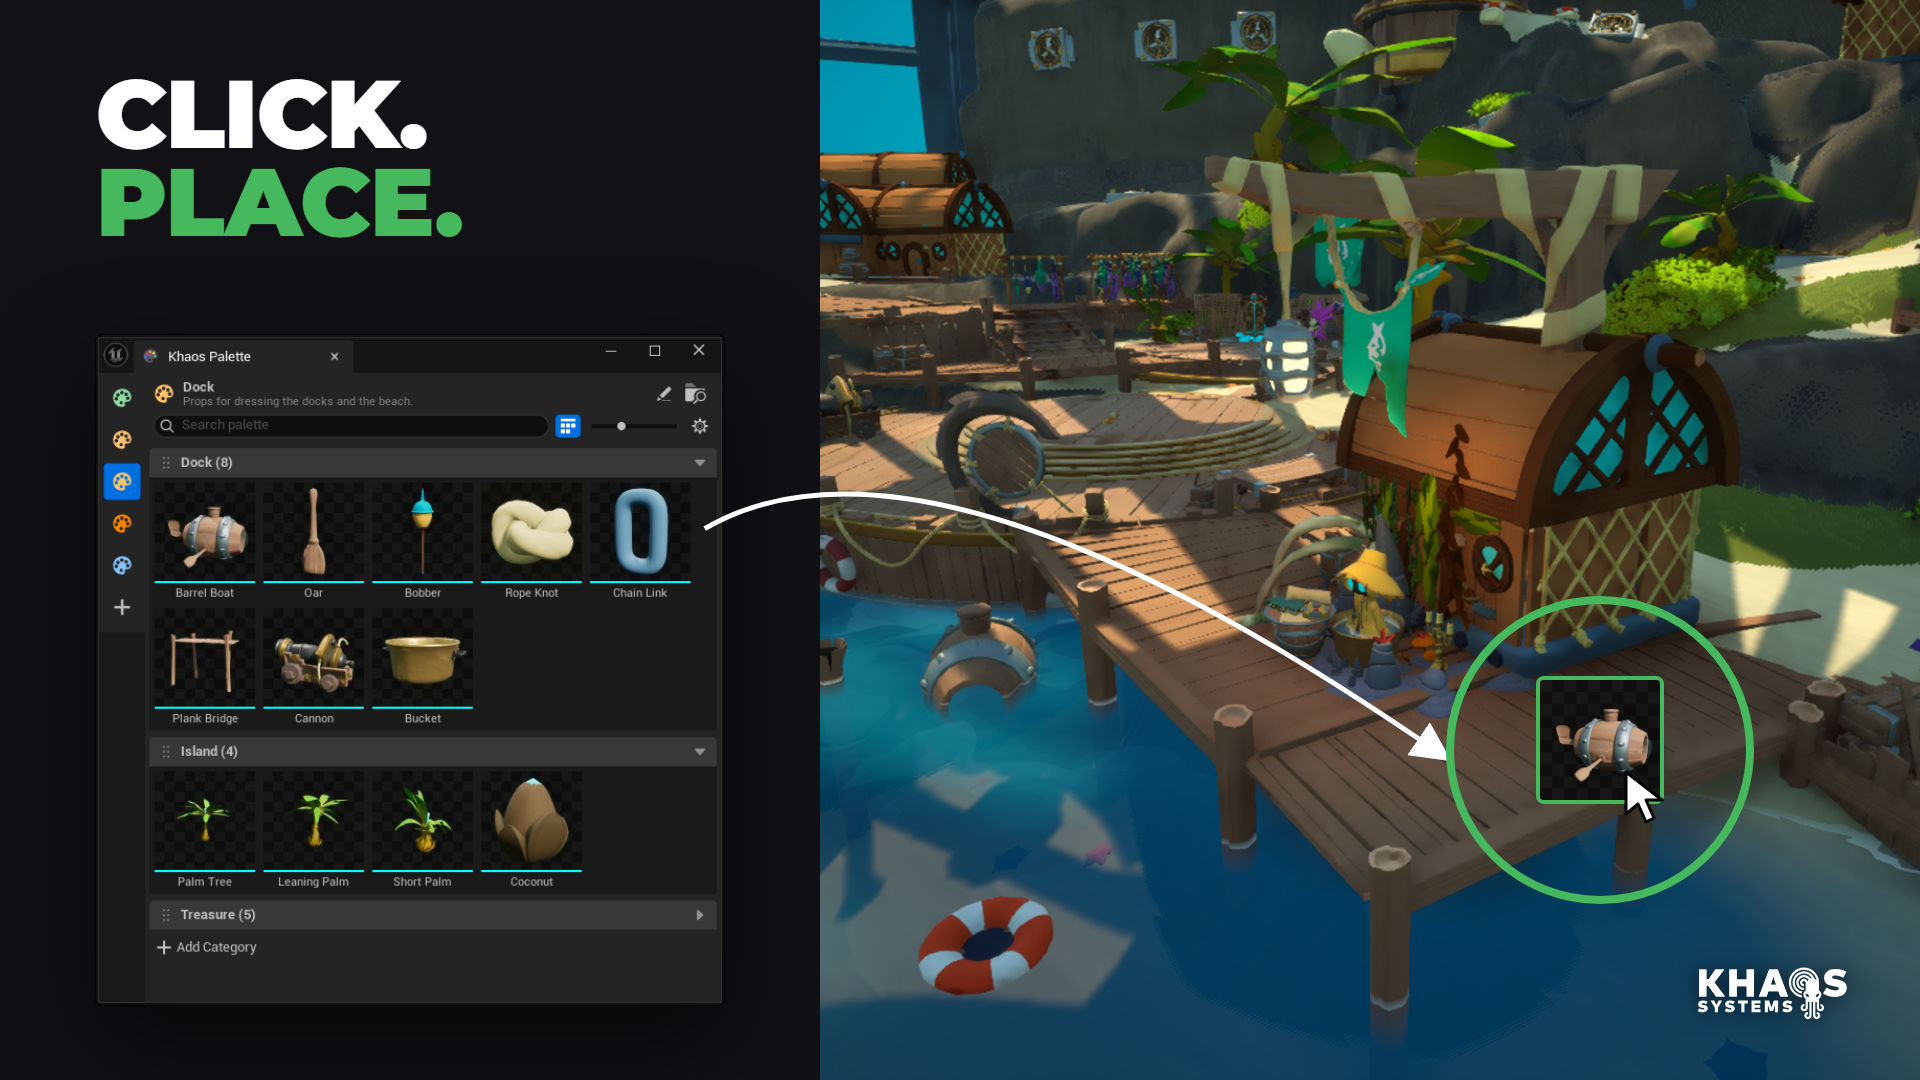
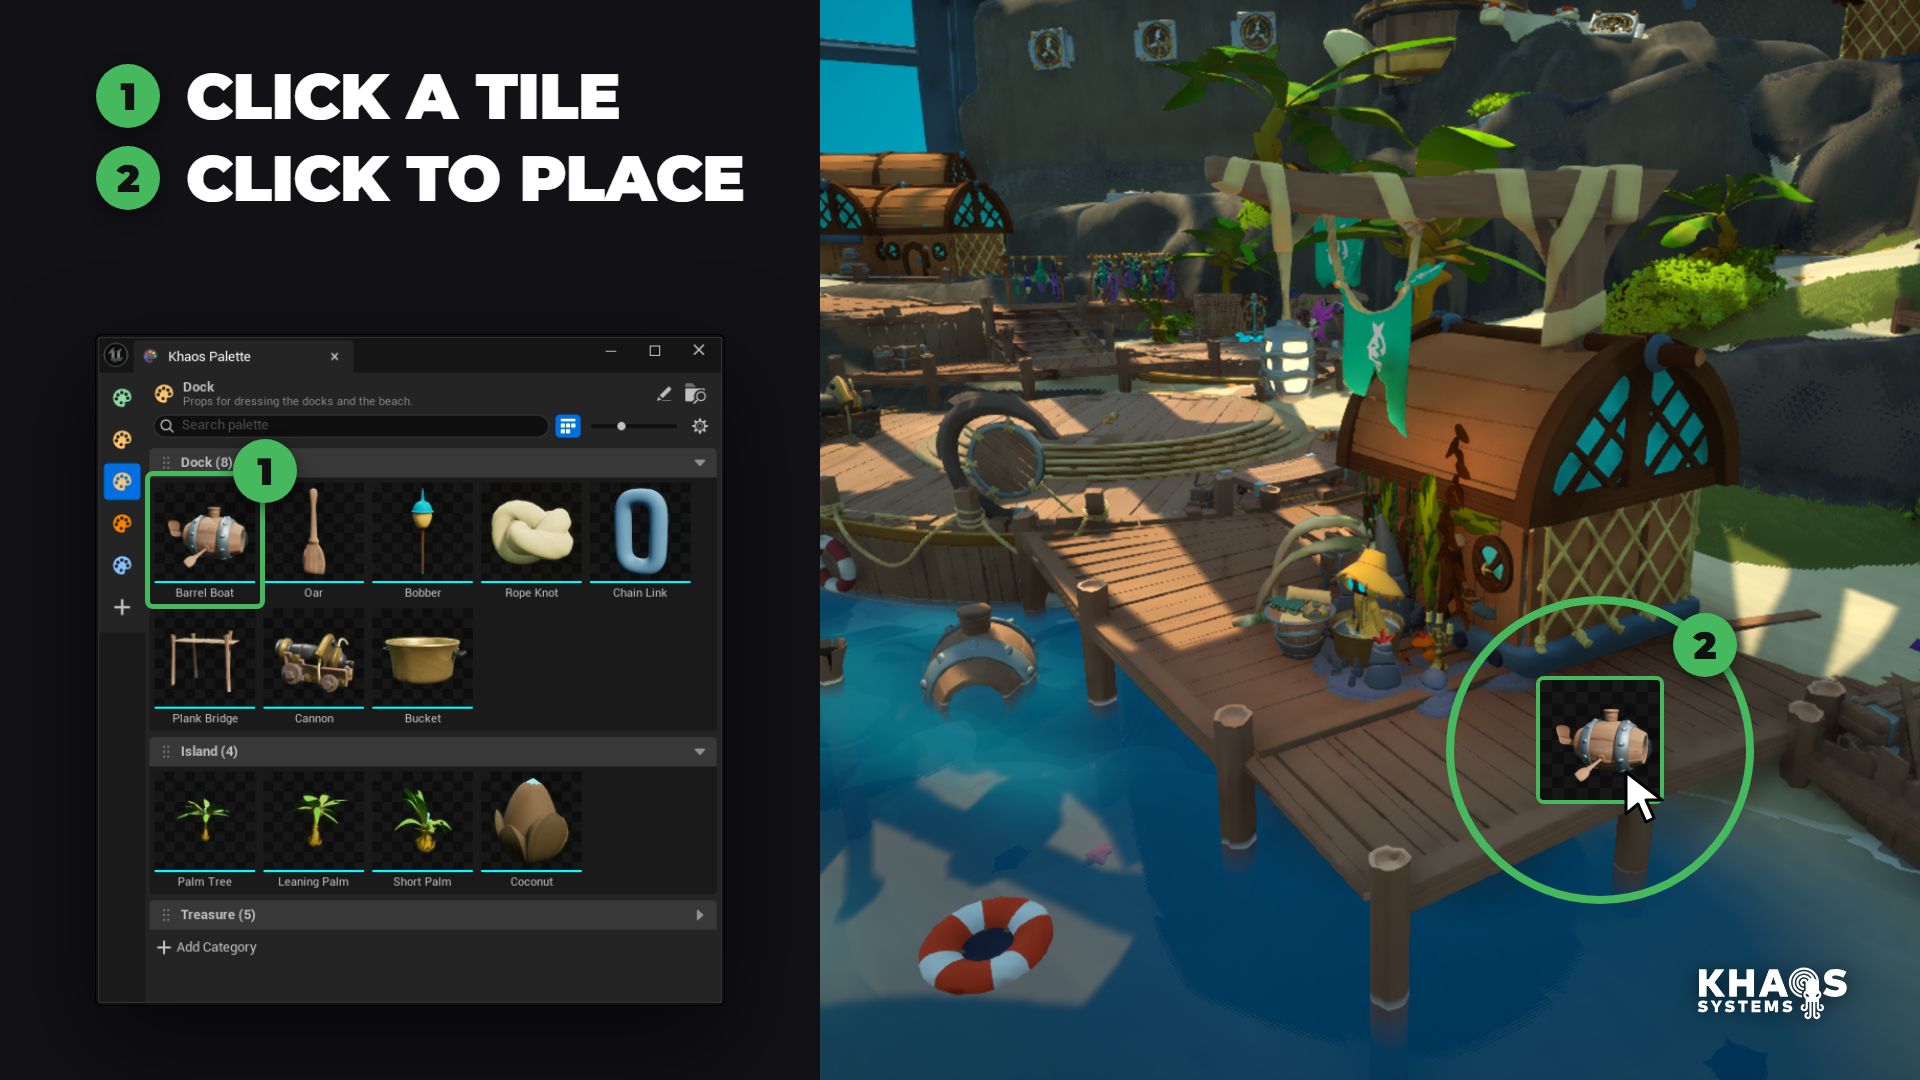
docs: show Click to Place as two numbered steps instead of an arrow

diff --git a/Marketing/render.py b/Marketing/render.py
@@ -32,7 +32,8 @@ RED, ORANGE, YELLOW, GREEN, BLUE, PURPLE = "#E5484D", "#F5A623", "#F2D94E", "#46
 
 # Points on tab.png as fractions of its size (x, y): measure them again whenever tab.png is retaken.
 SEARCH, SIDEBAR, CATEGORY, TILE, FOLDED = (0.097, 0.134), (0.042, 0.281), (0.9, 0.189), (0.867, 0.289), (0.9, 0.864)
-TILE_ROW_EDGE = (0.947, 0.289)
+# The first tile (thumbnail and name) on tab.png as left, top, right, bottom fractions.
+FIRST_TILE = (0.087, 0.2125, 0.26, 0.4)
 # Screenshots are enlarged at most this much, so UI text stays sharp.
 MAX_SCALE = 1.3
 
@@ -44,7 +45,7 @@ SLIDES = [
         ("Fold away", FOLDED, PURPLE, "right")]},
     {"id": "02-drag", "layout": "close-up", "panel": "tab-large.png", "title": ("Drag", "it in"), "accent": RED},
     # target: where the tile is being placed in scene.png, as page x, y and ring radius (right half of the image).
-    {"id": "03-click", "layout": "split", "panel": "tab.png", "title": ("Click.", "Place."), "accent": GREEN,
+    {"id": "03-click", "layout": "split", "panel": "tab.png", "title": ("Click a tile", "Click to place"), "accent": GREEN,
      "target": (1600, 750, 150)},
     {"id": "04-categories", "layout": "colour", "panel": "tab-menu.png", "title": ("Sort into", "categories"),
      "accent": ORANGE},
@@ -292,21 +293,37 @@ def close_up(page, slide):
     page.logo("left:96px;bottom:72px")
 
 
+def step(number, left, top, colour):
+    """A numbered step marker."""
+    return (f'<div style="position:absolute;left:{left}px;top:{top}px;width:64px;height:64px;border-radius:50%;'
+            f'background:{colour};color:#111;font:900 38px Montserrat;display:flex;align-items:center;'
+            f'justify-content:center;box-shadow:0 6px 18px rgba(0,0,0,.45)">{number}</div>')
+
+
 def split(page, slide):
+    """Click to Place as two numbered steps: click a tile in the tab (1), click in the level (2)."""
     page.scene(820)
     page.add('<div style="position:absolute;left:0;top:0;bottom:0;width:820px;background:#121116"></div>')
     box = page.panel(slide["panel"], 96, 300, 740, max_width=628)
-    sx, sy = point(box, TILE_ROW_EDGE)
+    accent = slide["accent"]
+    rows = "".join(
+        f'<div style="display:flex;align-items:center;gap:26px;margin-bottom:18px">'
+        f'<div style="position:relative;width:64px;height:64px;flex:none">{step(n, 0, 0, accent)}</div>'
+        f'<span>{html.escape(line)}</span></div>'
+        for n, line in enumerate(slide["title"], 1))
+    page.add(f'<h1 class="display head" style="left:96px;top:64px;font-size:64px;line-height:1;text-shadow:none">{rows}</h1>')
+    # Step 1: the tile, outlined, numbered at its corner.
+    left, top = point(box, FIRST_TILE[:2])
+    right, bottom = point(box, FIRST_TILE[2:])
+    page.add(f'<div style="position:absolute;left:{left - 6}px;top:{top - 6}px;width:{right - left + 12}px;'
+             f'height:{bottom - top + 12}px;border:5px solid {accent};border-radius:8px"></div>',
+             step(1, right - 26, top - 38, accent))
+    # Step 2: with Click to Place on, the tile follows the cursor until the click in the level.
     tx, ty, r = slide["target"]
-    page.add(f'<h1 class="display head" style="left:96px;top:70px;font-size:96px;text-shadow:none">'
-             f'{html.escape(slide["title"][0])}<em style="color:{slide["accent"]}">{html.escape(slide["title"][1])}</em></h1>')
-    page.add(f'<svg style="position:absolute;left:0;top:0" width="1920" height="1080"><defs><marker id="a" markerWidth="8" '
-             f'markerHeight="8" refX="4" refY="4" orient="auto"><path d="M0 0 L8 4 L0 8 Z" fill="#fff"/></marker></defs>'
-             f'<path d="M{sx + 14} {sy} C {sx + 220} {sy - 120}, {tx - r - 190} {ty - 120}, {tx - r - 15} {ty}" '
-             f'fill="none" stroke="#fff" stroke-width="5" marker-end="url(#a)"/>'
-             f'<circle cx="{tx}" cy="{ty}" r="{r}" fill="none" stroke="{slide["accent"]}" stroke-width="8"/></svg>')
-    # With Click to Place on, the tile follows the cursor until the click.
-    page.ghost(tx - 60, ty - 70, 120, slide["accent"])
+    page.add(f'<svg style="position:absolute;left:0;top:0" width="1920" height="1080">'
+             f'<circle cx="{tx}" cy="{ty}" r="{r}" fill="none" stroke="{accent}" stroke-width="8"/></svg>')
+    page.ghost(tx - 60, ty - 70, 120, accent)
+    page.add(step(2, tx + r * 0.7 - 32, ty - r * 0.7 - 32, accent))
     page.logo("right:72px;bottom:60px")
 
 

diff --git a/Marketing/Shots/README.md b/Marketing/Shots/README.md
@@ -27,5 +27,5 @@ menu or the viewport is in shot. No project name, level name, personal path or t
 | `fill.png` | Content Browser: right-click a prop > Add to Palette, New Palette from Selection highlighted | fill |
 | `asset.png` | The palette's properties (the tab's Edit button), Categories expanded, 640×400 | asset |
 
-After retaking `tab.png`, measure the callout points and `TILE_ROW_EDGE` at the top of `render.py` on it. After
+After retaking `tab.png`, measure the callout points and `FIRST_TILE` at the top of `render.py` on it. After
 retaking `scene.png`, check the click image's `target` still lands on an empty spot of the dock.
